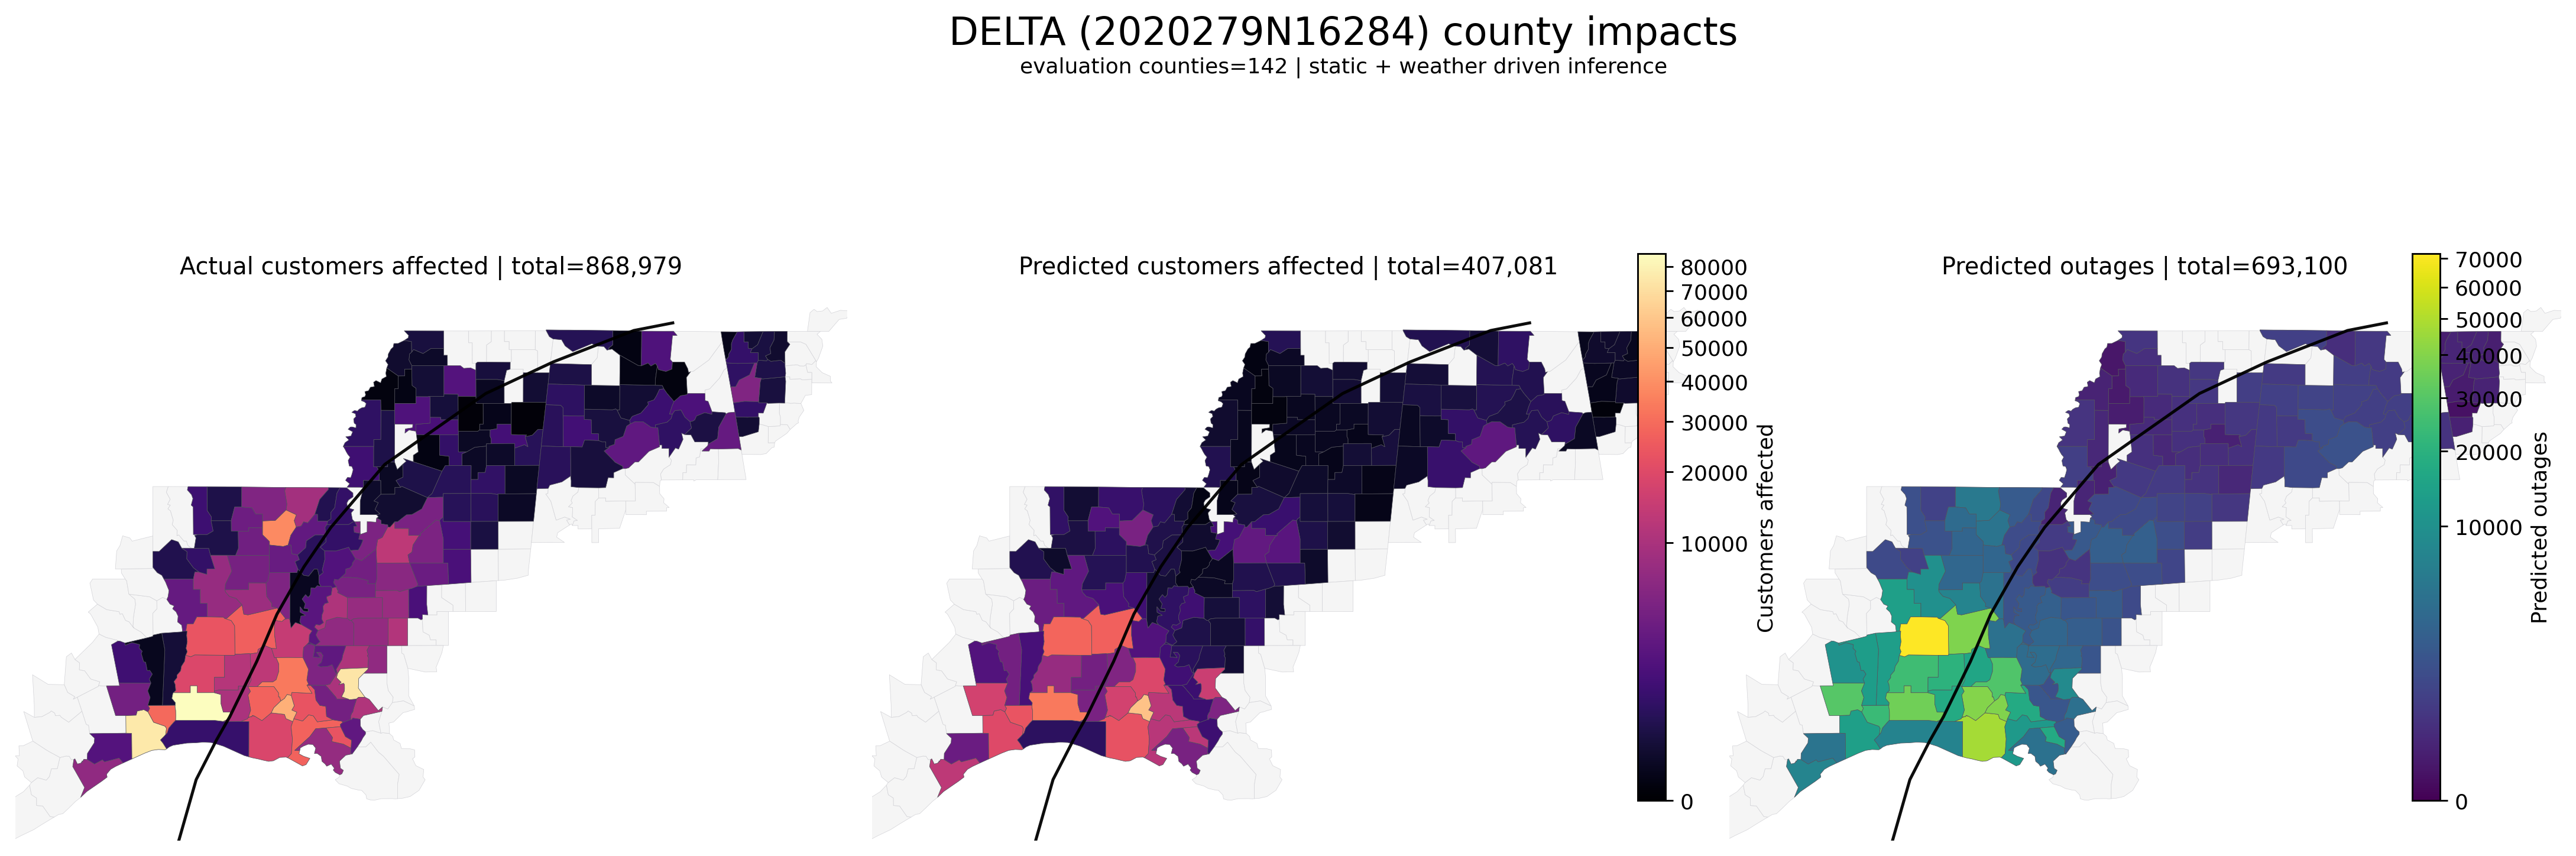
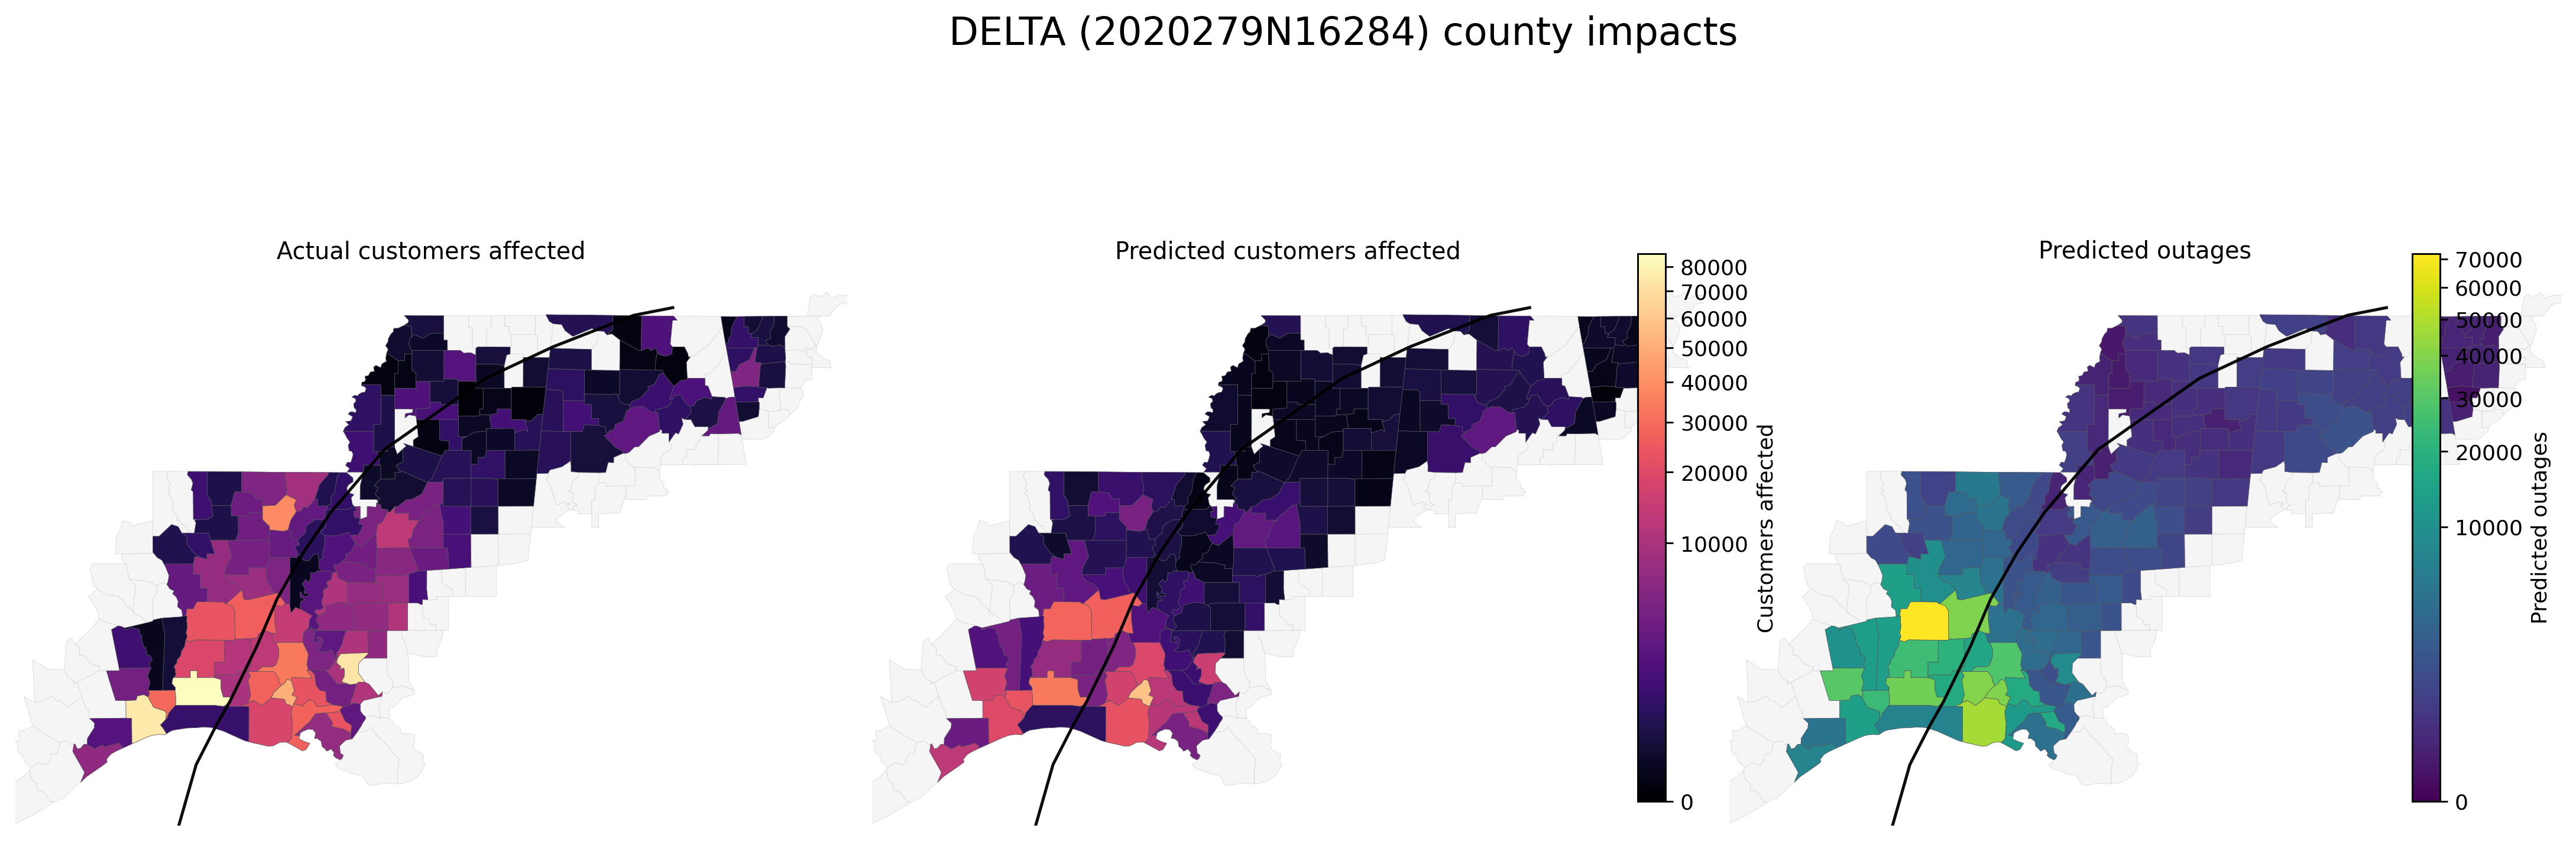
Siemens Demo

diff --git a/published code/storm_customers_affected_demo.py b/published code/storm_customers_affected_demo.py
@@ -168,7 +168,7 @@ def plot_storm(county_frame: pd.DataFrame, *, storm_id: str, storm_name: str, ou
     outage_values = outage_values[np.isfinite(outage_values) & (outage_values > 0.0)]
     outage_norm = PowerNorm(gamma=0.35, vmin=0.0, vmax=max(float(outage_values.max()) if outage_values.size else 1.0, 1.0))
     (fig, axes) = plt.subplots(1, 3, figsize=(18.0, 6.8), dpi=260)
-    panels = (('actual_peak_customers_affected', affected_norm, 'magma', f"Actual customers affected | total={float(target_only['actual_peak_customers_affected'].sum()):,.0f}"), ('pred_peak_customers_affected', affected_norm, 'magma', f"Predicted customers affected | total={float(target_only['pred_peak_customers_affected'].sum()):,.0f}"), ('pred_county_outages', outage_norm, 'viridis', f"Predicted outages | total={float(target_only['pred_county_outages'].sum()):,.0f}"))
+    panels = (('actual_peak_customers_affected', affected_norm, 'magma', f"Actual customers affected | {float(target_only['actual_peak_customers_affected'].sum()):,.0f}"), ('pred_peak_customers_affected', affected_norm, 'magma', f"Predicted customers affected | {float(target_only['pred_peak_customers_affected'].sum()):,.0f}"), ('pred_county_outages', outage_norm, 'viridis', f"Predicted outages | {float(target_only['pred_county_outages'].sum()):,.0f}"))
     for (ax, (column, norm, cmap, title)) in zip(axes, panels):
         merged.plot(ax=ax, color='#f5f5f5', edgecolor='#d4d4d8', linewidth=0.2)
         target_only.plot(ax=ax, column=column, cmap=cmap, edgecolor='#52525b', linewidth=0.2, norm=norm)
@@ -187,8 +187,7 @@ def plot_storm(county_frame: pd.DataFrame, *, storm_id: str, storm_name: str, ou
     fig.colorbar(affected_bar, ax=axes[:2], orientation='vertical', shrink=0.68, pad=0.015, fraction=0.04).set_label('Customers affected')
     fig.colorbar(outage_bar, ax=[axes[2]], orientation='vertical', shrink=0.68, pad=0.015, fraction=0.06).set_label('Predicted outages')
     fig.suptitle(f'{storm_name} ({storm_id}) county impacts', fontsize=18, y=0.985)
-    fig.text(0.5, 0.945, f'evaluation counties={target_only.shape[0]:,} | static + weather driven inference', ha='center', va='top', fontsize=10)
-    fig.subplots_adjust(left=0.02, right=0.94, bottom=0.03, top=0.89, wspace=0.03)
+    fig.subplots_adjust(left=0.02, right=0.94, bottom=0.03, top=0.92, wspace=0.03)
     output_path.parent.mkdir(parents=True, exist_ok=True)
     fig.savefig(output_path, bbox_inches='tight')
     plt.close(fig)